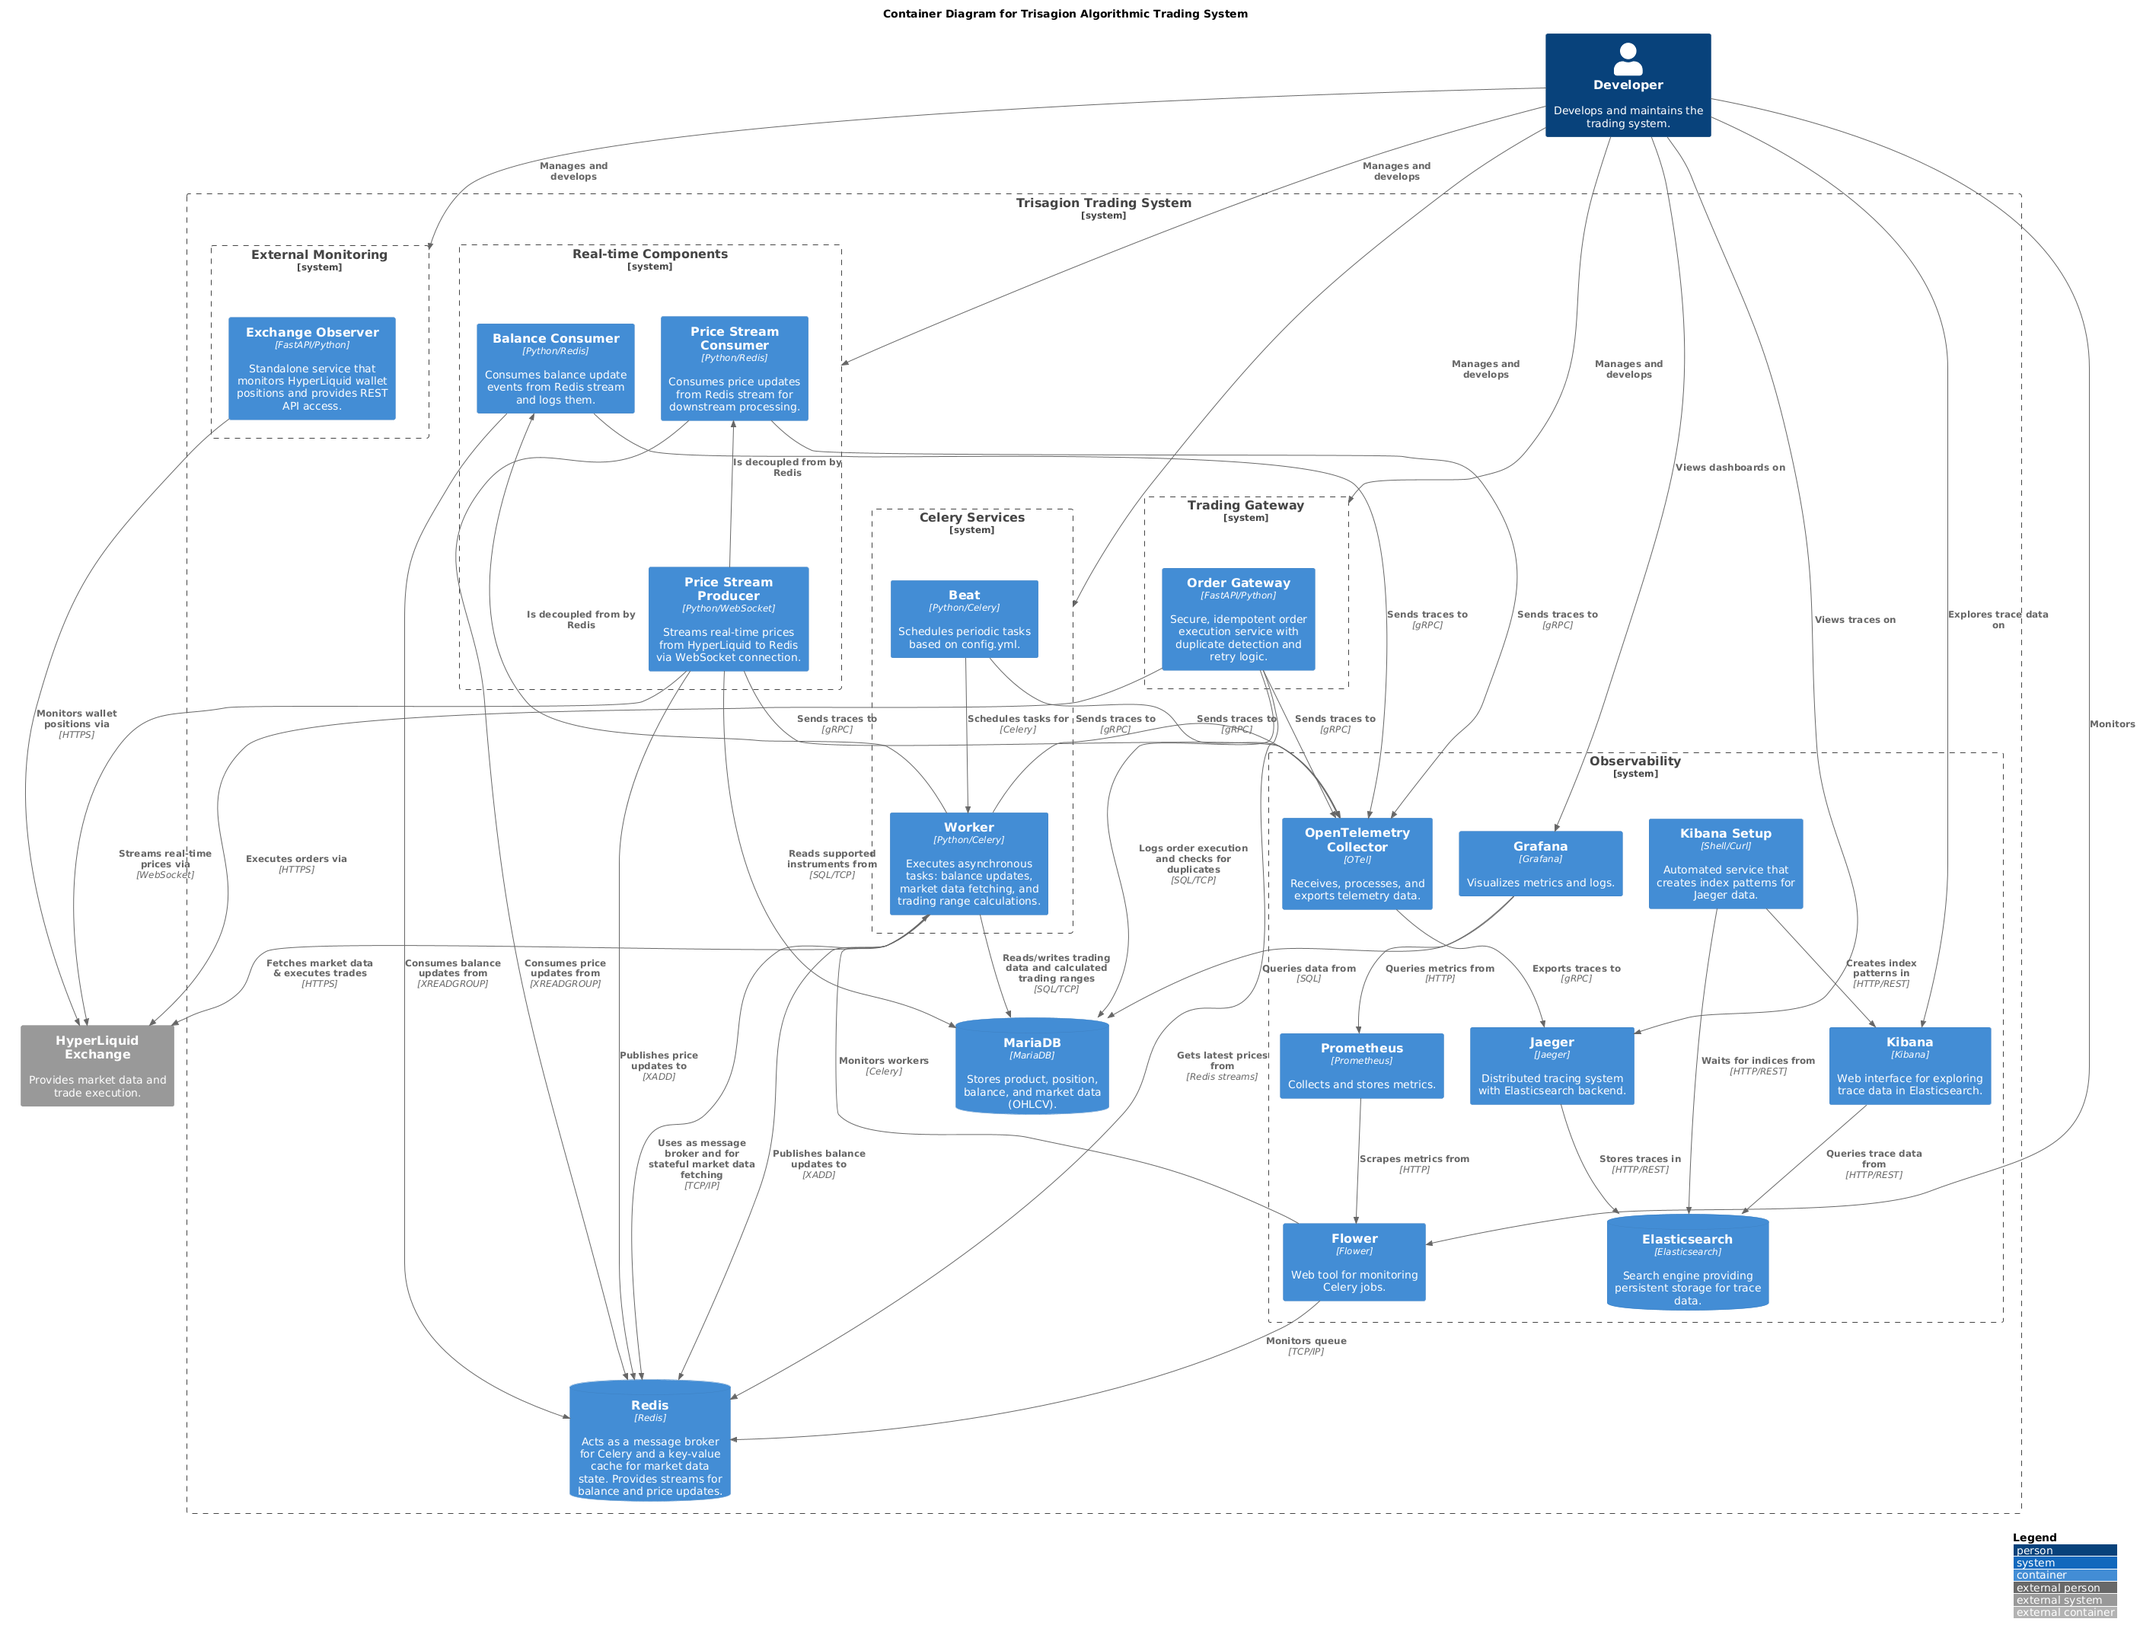
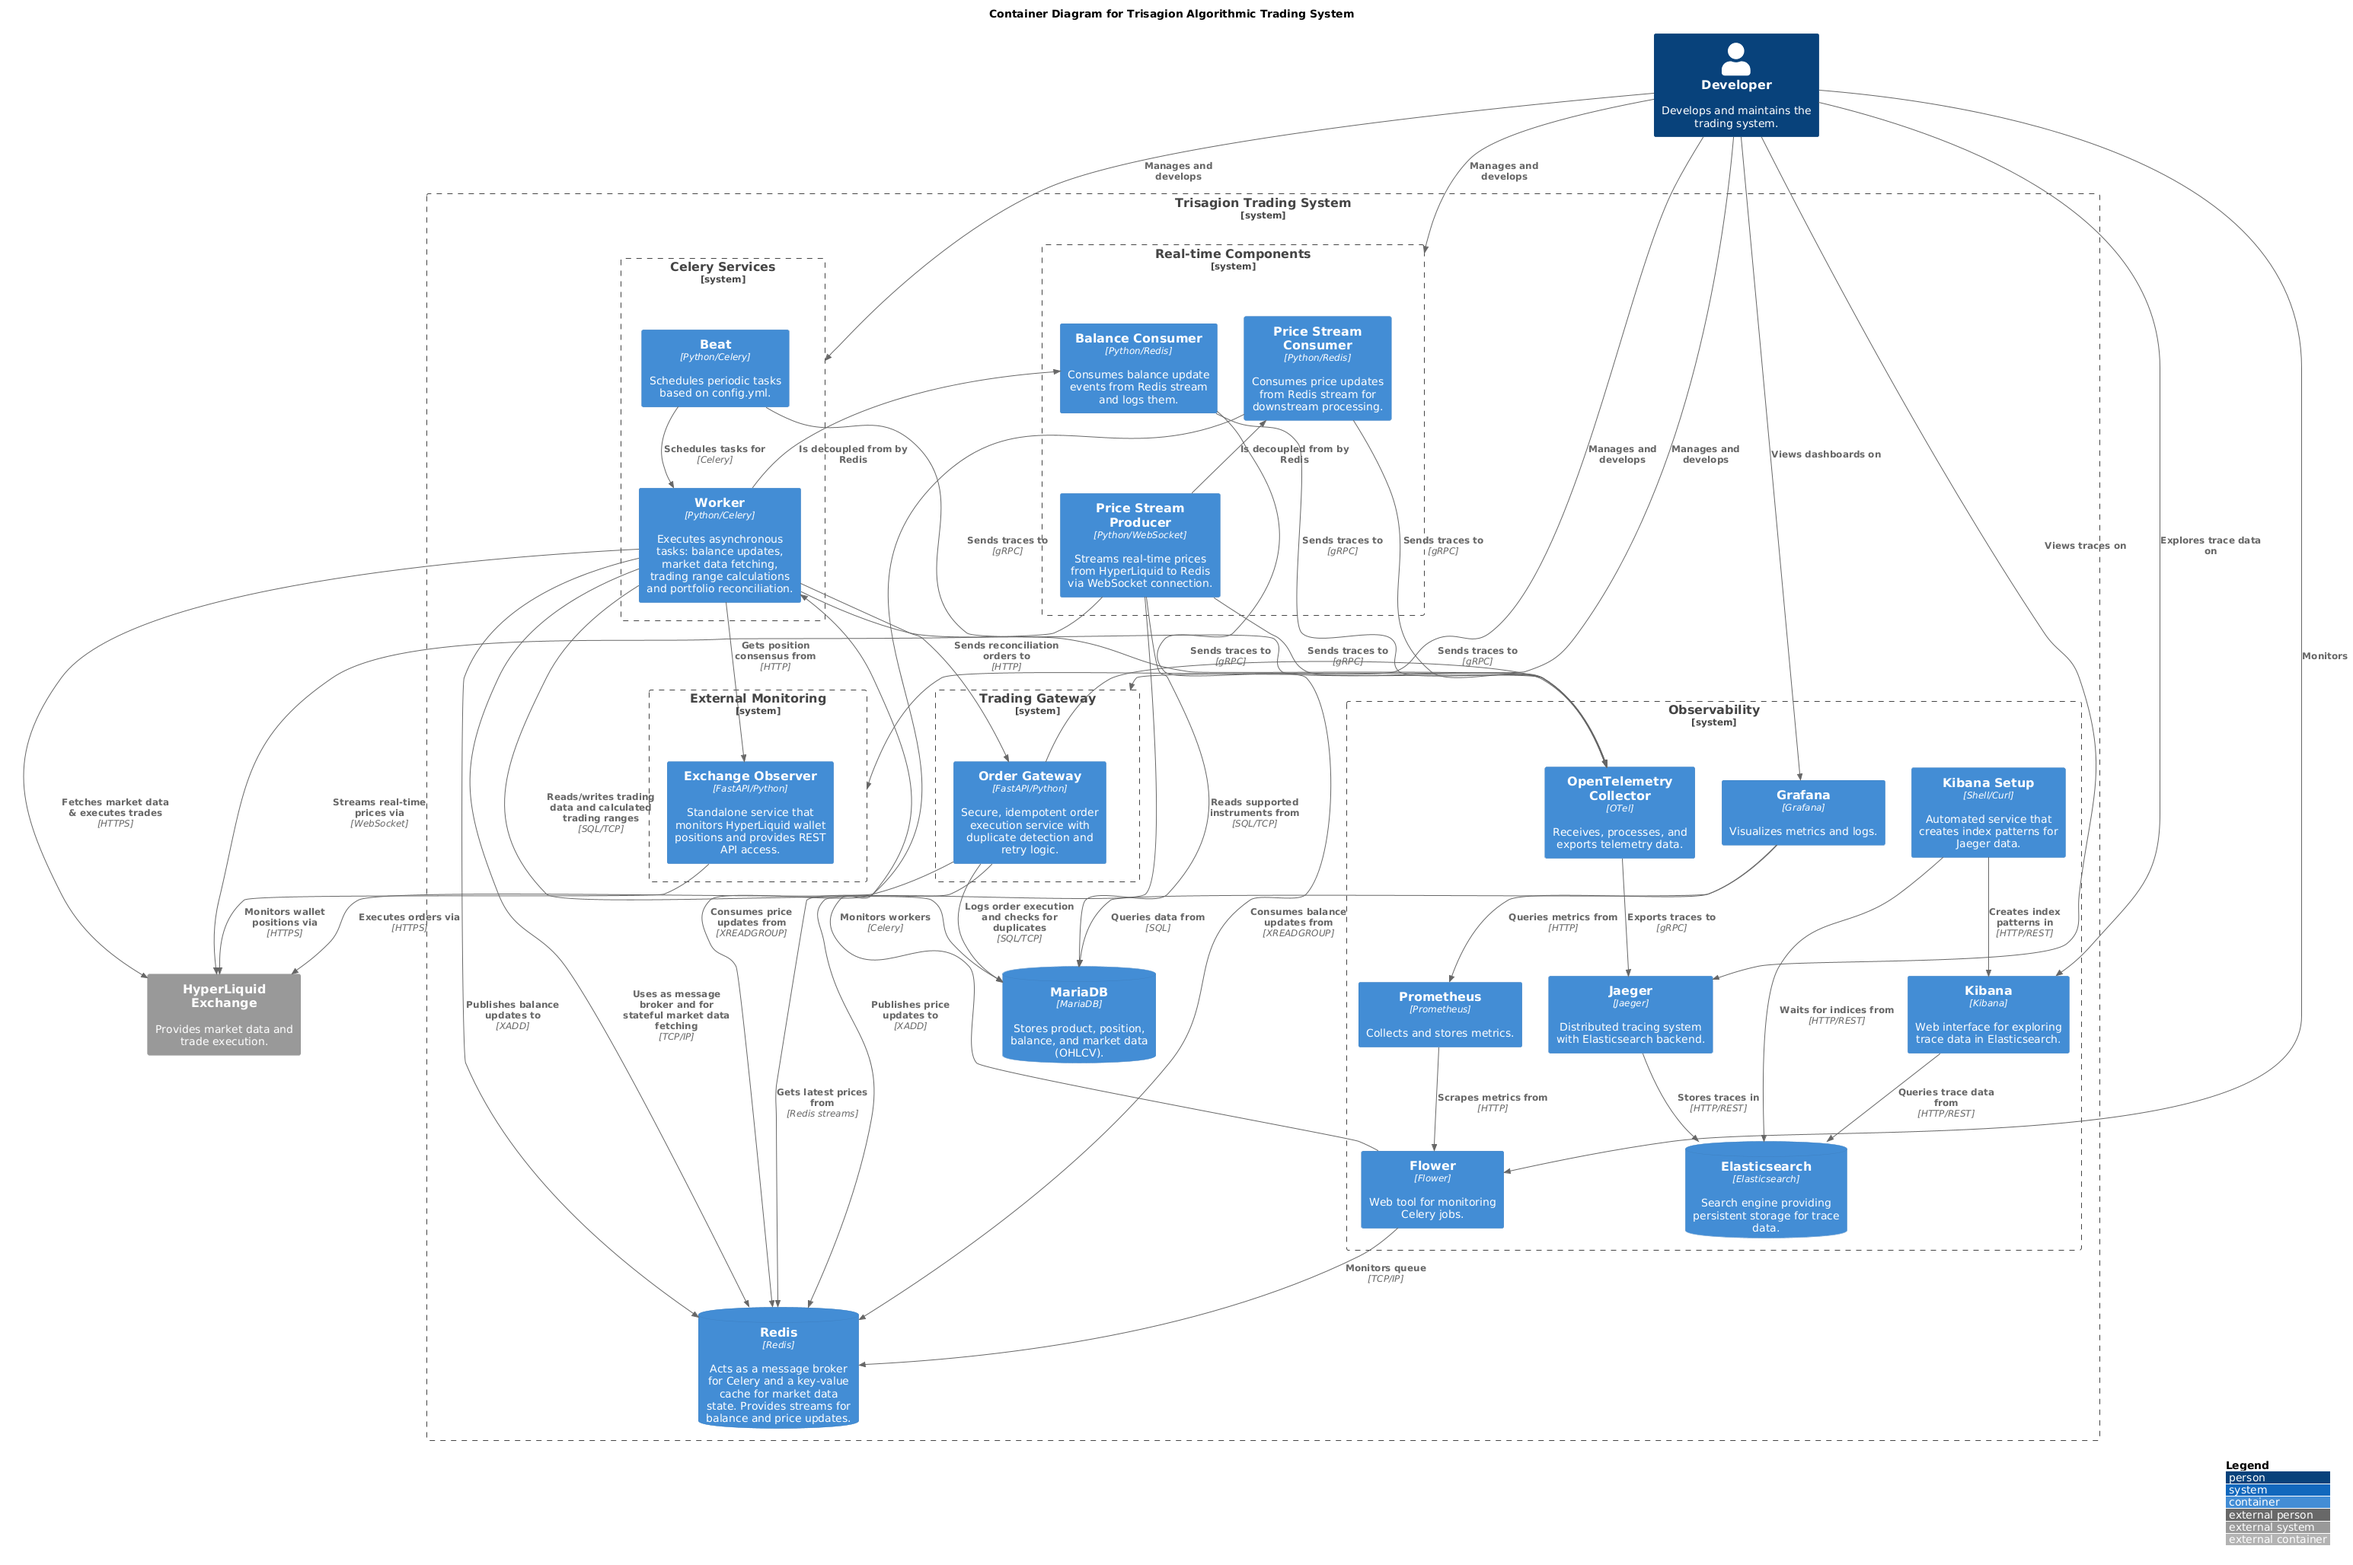
docs: Update diagrams and documentation for reconciliation engine
This commit updates the C4 diagrams and documentation to reflect the
implementation of the new reconciliation engine.

Key changes include:
- Updated level-2 container diagram to include the reconciliation service.
- Added a new level-3 component diagram for the reconciliation service.
- Updated README.md and GEMINI.md to include information about the
  reconciliation engine.

diff --git a/GEMINI.md b/GEMINI.md
@@ -87,6 +87,17 @@ The system architecture is documented using C4 diagrams, which can be found in t
 
 - **C4 Diagram Best Practices:** C4 diagrams should not contain specific configuration values. For example, instead of "every 30 seconds," the diagram should say "on a configured schedule." This prevents the diagrams from becoming outdated when configuration changes.
 
+## Reconciliation Engine
+
+The reconciliation engine is a key component of the 3T system, responsible for ensuring that the actual portfolio state matches the desired state. It runs as a periodic task within the Celery worker.
+
+### Key Features:
+
+- **State Comparison:** The engine compares the desired positions, defined in the `runs` table, with the actual positions reported by the local database and external observer nodes.
+- **Consensus-Based Trading:** It requires consensus between multiple sources before executing trades, enhancing safety and reliability.
+- **Automated Rebalancing:** The engine automatically generates and executes orders to correct any discrepancies between the desired and actual portfolio states.
+- **Configurable:** The engine's behavior, including rebalance frequency and risk parameters, can be configured in `config.yml`.
+
 ## Troubleshooting
 
 When a service is inaccessible, always run `docker-compose ps` first to check if the container is running. If it is not running, attempt to start it before further troubleshooting.

diff --git a/README.md b/README.md
@@ -43,6 +43,7 @@ The system features two main data pipelines:
 
 1.  **Price Data**: The `price_stream_producer` service connects to the HyperLiquid exchange via WebSocket and streams real-time price data to a Redis stream. The `price_stream_consumer` service then consumes this data for further processing.
 2.  **Balance Data**: The `celery_worker` periodically fetches balance and position data from the exchange and publishes it to a Redis stream. The `balance_consumer` service consumes this data to log and monitor the system's financial status.
+3.  **Portfolio Reconciliation**: The `reconciliation_engine` within the `celery_worker` periodically compares the desired portfolio state (defined in the `runs` table) with the actual state (from the local database and external observer nodes). It generates and executes corrective orders via the `order_gateway` to ensure the portfolio remains aligned with the target strategy.
 
 
 ![context](docs/arch/level-1-context.png)
@@ -62,6 +63,8 @@ The system features two main data pipelines:
 ![order-gateway](docs/arch/level-3-order-gateway.png)
 
 ![exchange-observer](docs/arch/level-3-exchange-observer.png)
+
+![reconciliation-service](docs/arch/level-3-reconciliation-service.png)
 
 ![trade-lifecycle](docs/arch/dynamic-trade-lifecycle.png)
 
